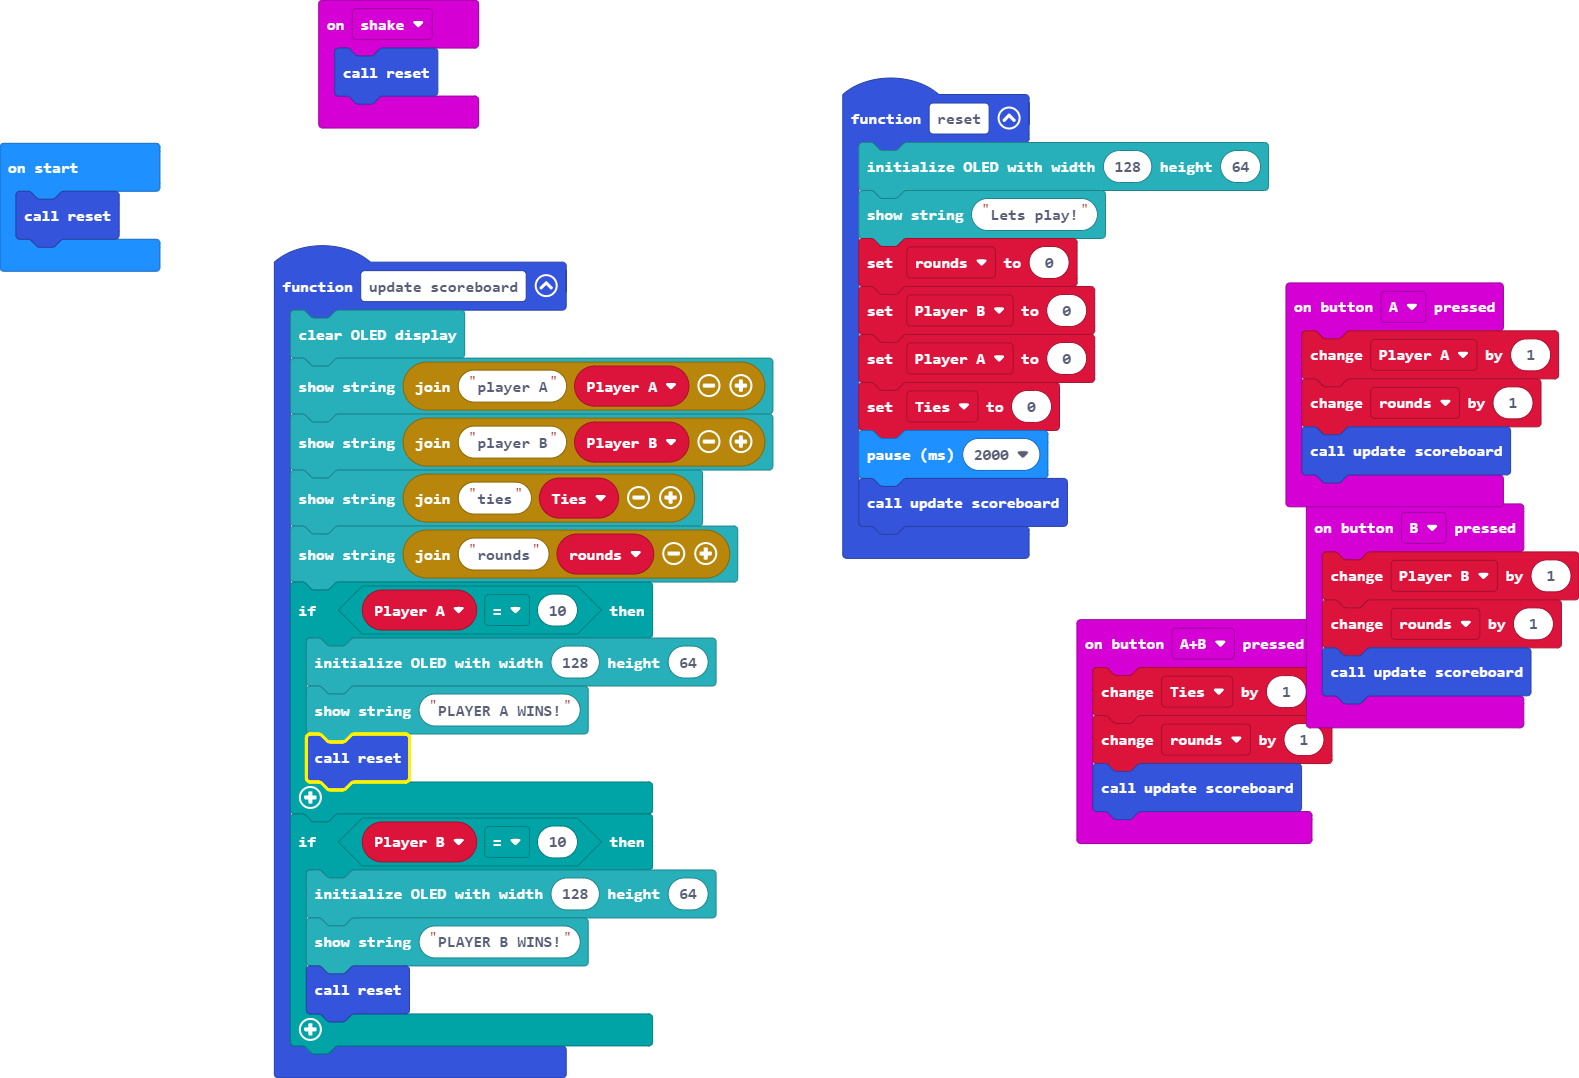
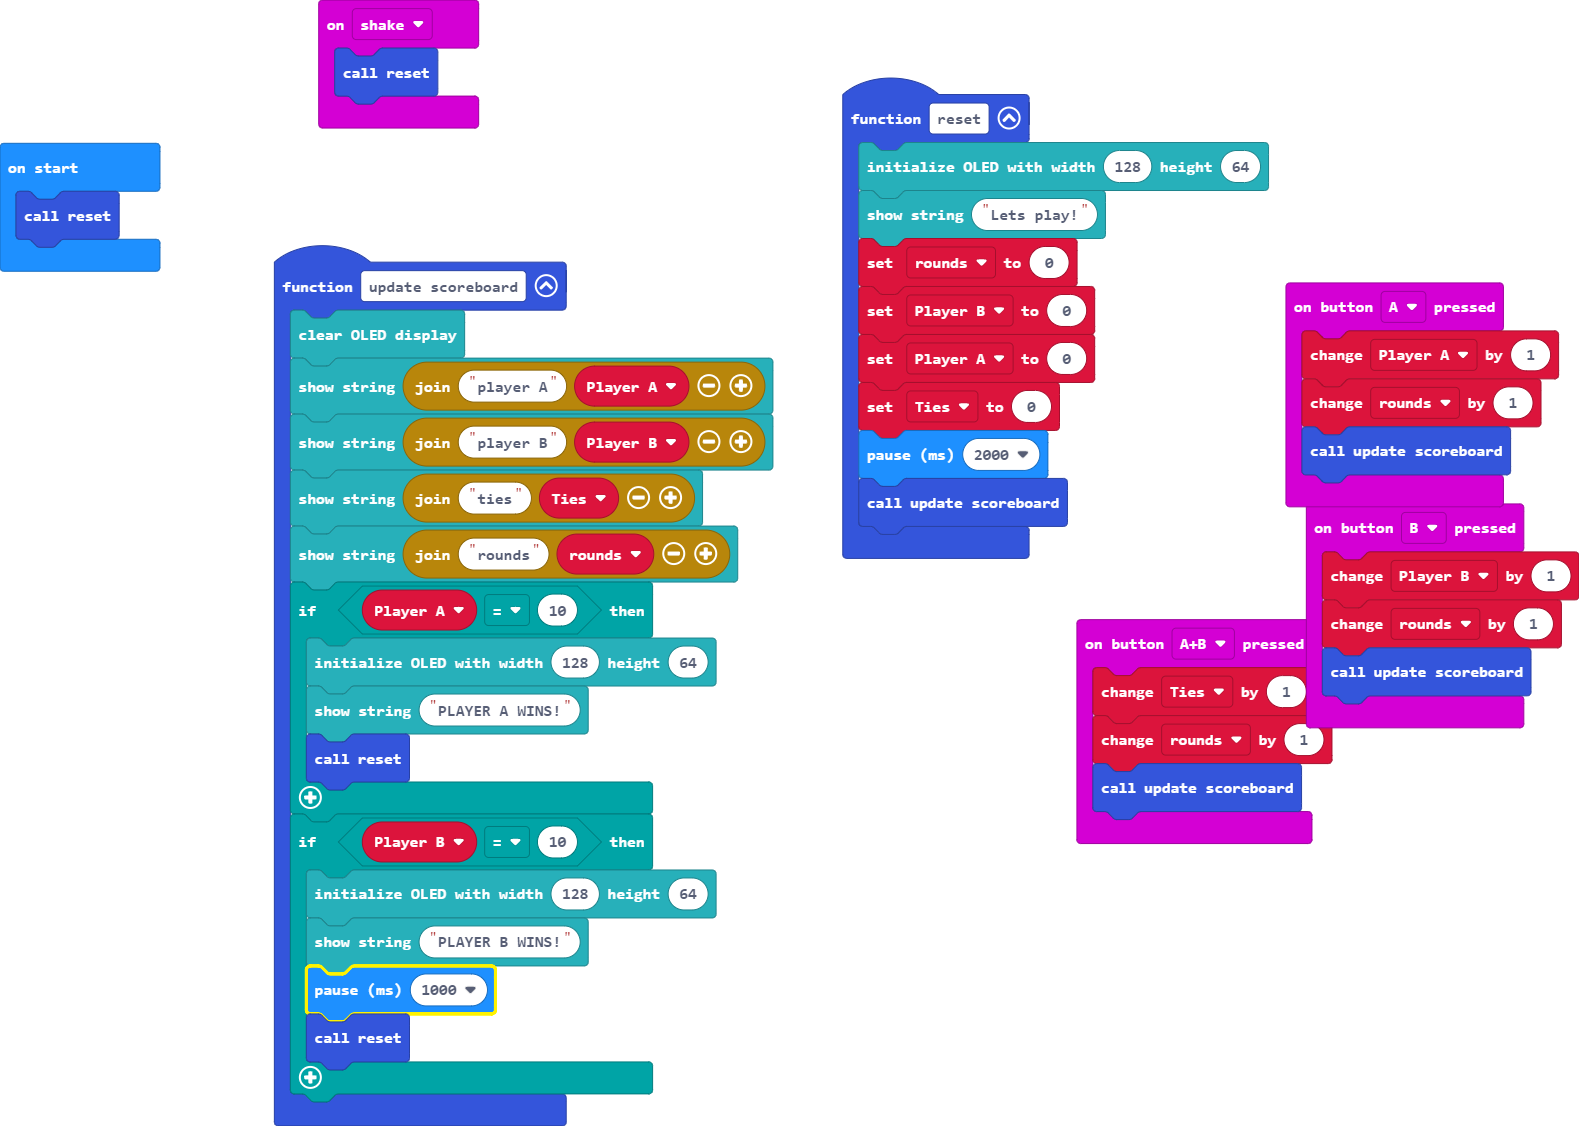
Update main.blocks, main.ts

diff --git a/main.ts b/main.ts
@@ -17,6 +17,7 @@ function update_scoreboard () {
     if (Player_B == 10) {
         OLED.init(128, 64)
         OLED.writeStringNewLine("PLAYER B WINS!")
+        basic.pause(1000)
         reset()
     }
 }
